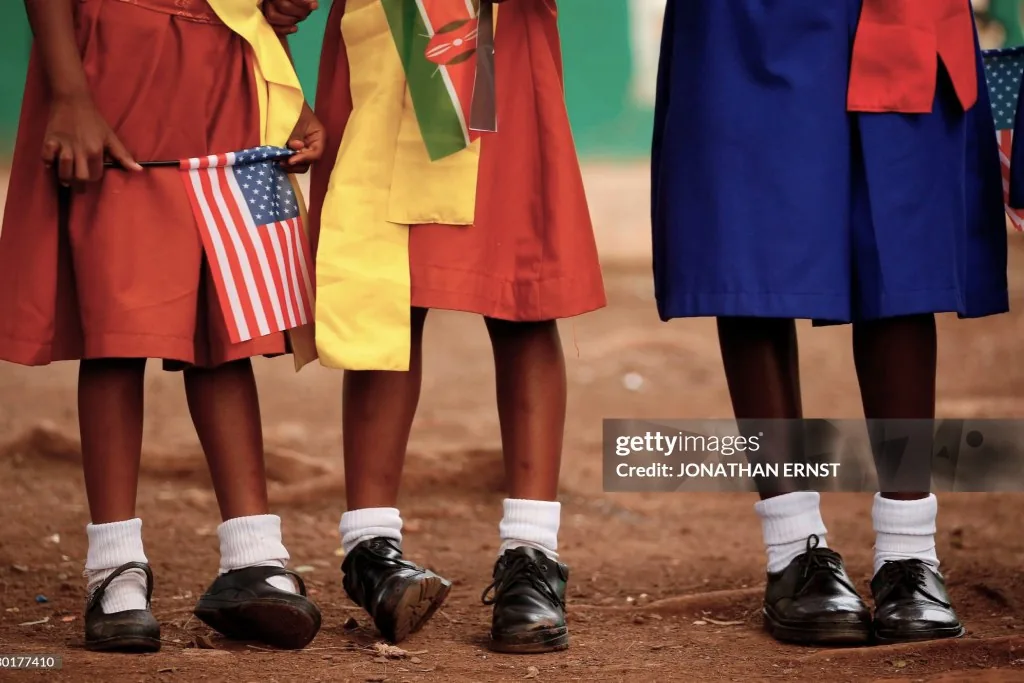
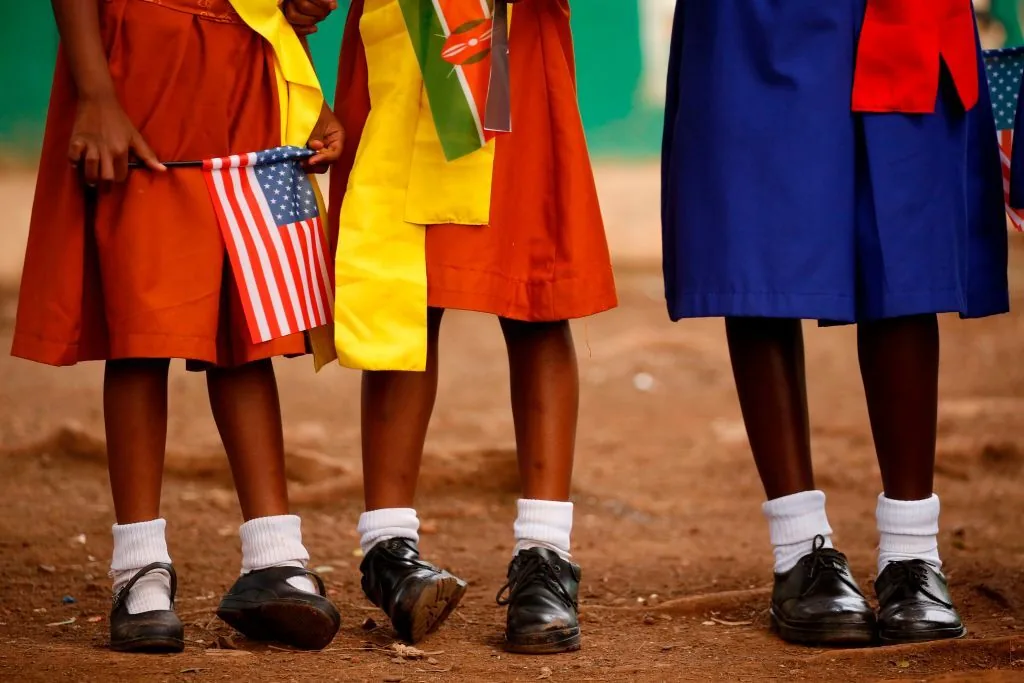
fix getty images

diff --git a/index.html b/index.html
@@ -151,7 +151,7 @@
         </div>
         <p class="text-lg leading-[1.5] text-ink desktop:text-xl desktop:leading-[30px]">Since 2003, a $100 billion bipartisan<br class="hidden desktop:inline"> investment has supported 20.6 million people<br class="hidden desktop:inline"> on antiretroviral therapy.</p>
         <div class="relative overflow-visible">
-          <img src="images/record-pepfar.webp" alt="Diplomatic ceremony outdoors" class="h-[171px] w-full max-w-none object-cover desktop:h-[200px] desktop:max-w-[412px]" width="828" height="395">
+          <img src="images/record-pepfar.webp" alt="Diplomatic ceremony outdoors" class="h-[171px] w-full max-w-none object-cover desktop:h-[200px] desktop:max-w-[412px]" width="1024" height="489">
           <img src="images/decor-record-pepfar.webp" alt="" aria-hidden="true" width="226" height="254" class="pointer-events-none absolute bottom-0 right-[-22px] h-[64.467%] w-[27.295%] max-w-none">
         </div>
       </article>
